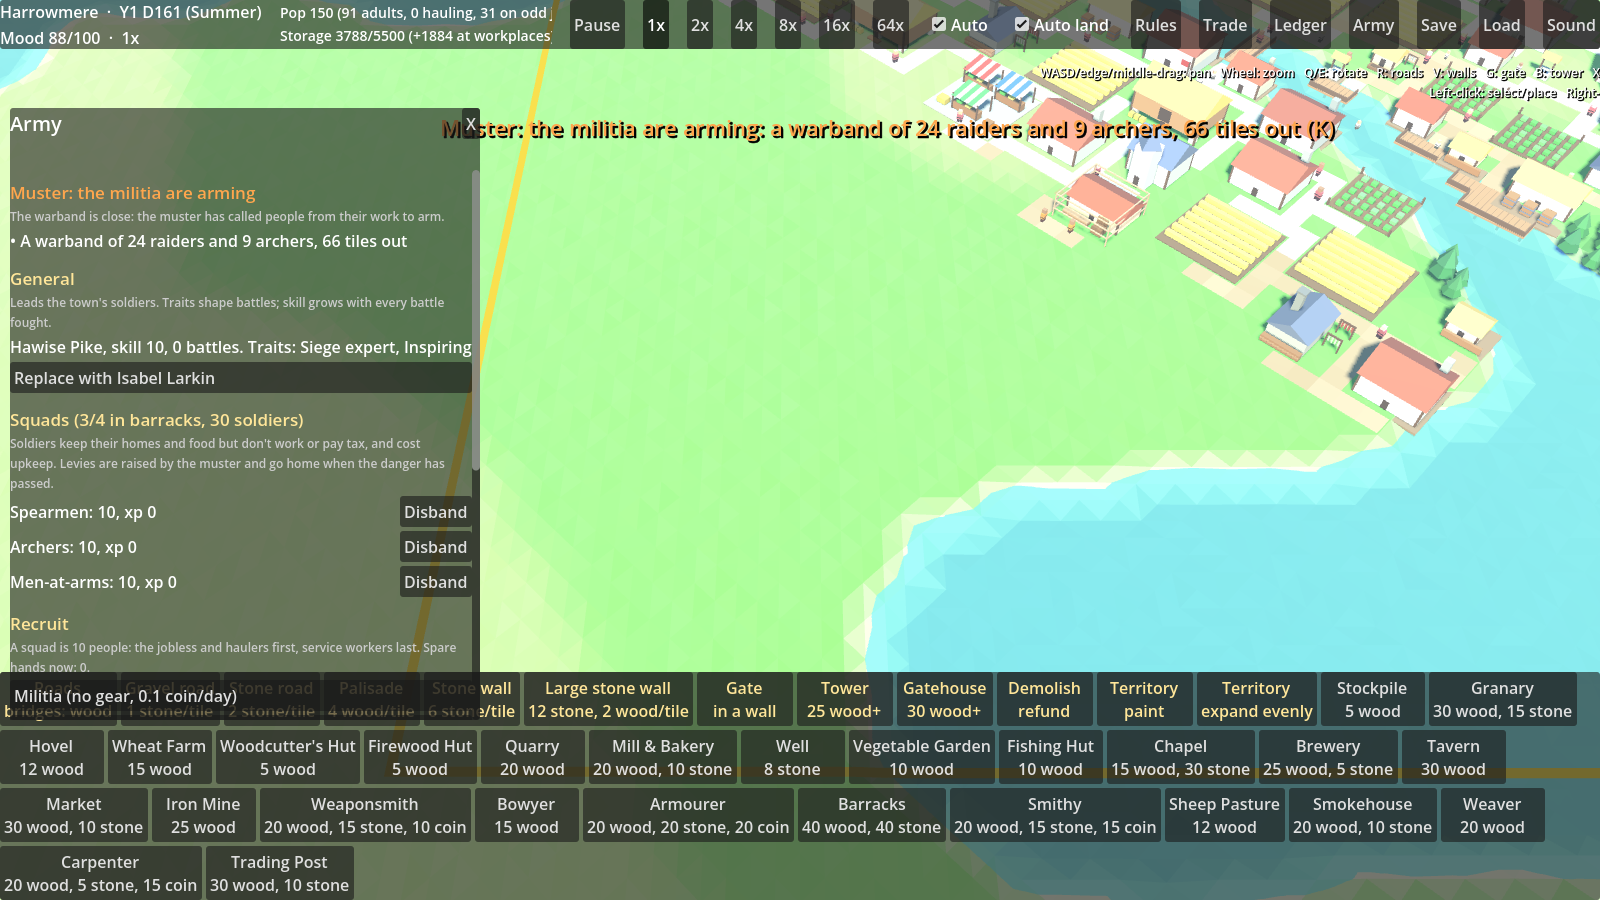
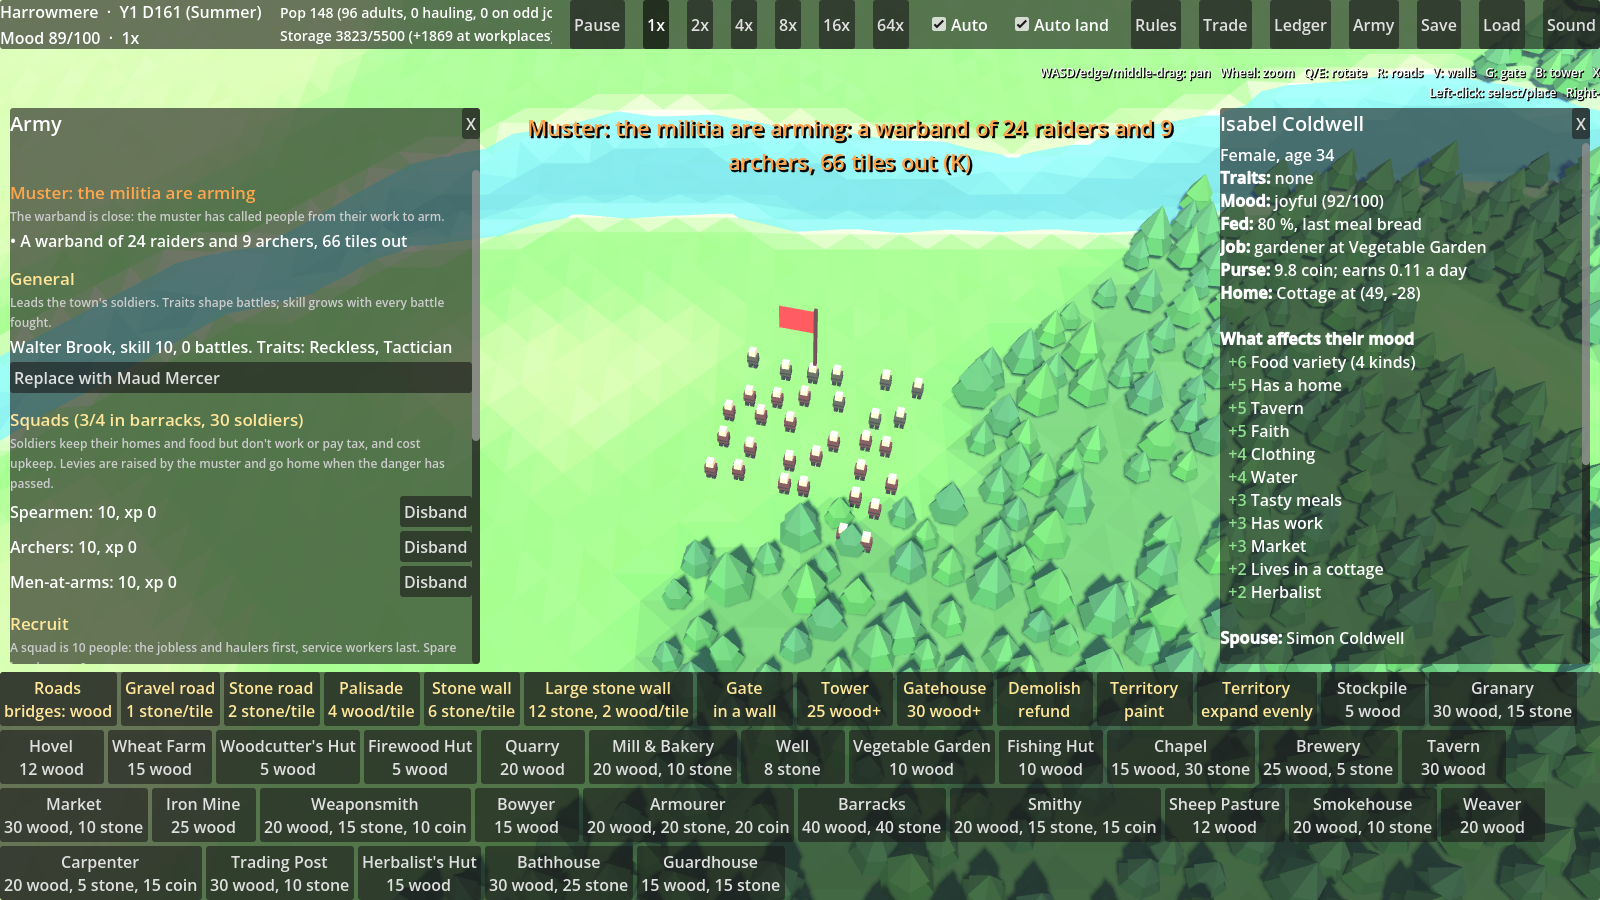
Keep side panels and the feed above the build menu
The build menu now wraps to four rows; the rules, trade, ledger, army and
inspector panels and the event feed fit themselves above its actual
height. The raid alert banner sits between the side panels and the
inspector.

Claude-Session: https://claude.ai/code/session_01MRVVn6MaY7YvDPrFApuYAs

diff --git a/client/Scripts/Ui/Hud.cs b/client/Scripts/Ui/Hud.cs
@@ -20,6 +20,8 @@ public partial class Hud : CanvasLayer
     private Label _feedLabel = null!;
     private Label _status = null!;
     private Label _alert = null!;
+    private PanelContainer _buildMenu = null!;
+    private VBoxContainer _feedBox = null!;
     private Button _pause = null!;
     private CheckBox _autoBuild = null!;
     private CheckBox _autoTerritory = null!;
@@ -127,7 +129,7 @@ public partial class Hud : CanvasLayer
         }
 
         // --- Build menu (bottom) ---
-        var bottom = new PanelContainer();
+        var bottom = _buildMenu = new PanelContainer();
         bottom.SetAnchorsAndOffsetsPreset(Control.LayoutPreset.BottomWide);
         bottom.GrowVertical = Control.GrowDirection.Begin;
         AddChild(bottom);
@@ -206,7 +208,7 @@ public partial class Hud : CanvasLayer
         }
 
         // --- Event feed and status (bottom-left, above the build menu) ---
-        var feedBox = new VBoxContainer { MouseFilter = Control.MouseFilterEnum.Ignore };
+        var feedBox = _feedBox = new VBoxContainer { MouseFilter = Control.MouseFilterEnum.Ignore };
         feedBox.SetAnchorsAndOffsetsPreset(Control.LayoutPreset.BottomLeft);
         feedBox.OffsetTop = -400;
         feedBox.OffsetBottom = -182; // the build menu is up to three rows tall
@@ -241,11 +243,11 @@ public partial class Hud : CanvasLayer
             MouseFilter = Control.MouseFilterEnum.Ignore,
             Visible = false,
         };
-        // Right of the side panels (which take the left 490 pixels), under the controls help.
-        _alert.SetAnchorsAndOffsetsPreset(Control.LayoutPreset.TopRight);
+        // Between the side panels (the left 490 pixels) and the inspector (the right 390), under the controls help.
+        _alert.SetAnchorsAndOffsetsPreset(Control.LayoutPreset.TopWide);
         _alert.OffsetTop = 112;
-        _alert.OffsetLeft = -1080;
-        _alert.OffsetRight = -20;
+        _alert.OffsetLeft = 490;
+        _alert.OffsetRight = -390;
         _alert.AutowrapMode = TextServer.AutowrapMode.WordSmart;
         _alert.AddThemeFontSizeOverride("font_size", 22);
         _alert.AddThemeColorOverride("font_shadow_color", Colors.Black);
@@ -308,8 +310,24 @@ public partial class Hud : CanvasLayer
         return string.Join("\n", lines);
     }
 
+    /// <summary>
+    /// Keeps the side panels (rules, trade, ledger, army, inspector) and the event feed above the build menu,
+    /// however many rows it wraps to at this window size.
+    /// </summary>
+    private void FitAboveBuildMenu()
+    {
+        float clear = _buildMenu.Size.Y + 8;
+        if (clear < 40) return; // not laid out yet
+        foreach (var child in GetChildren())
+            if (child is PanelContainer panel && panel != _buildMenu && Mathf.IsEqualApprox(panel.AnchorBottom, 1) && panel.AnchorTop == 0)
+                panel.OffsetBottom = -clear;
+        _feedBox.OffsetBottom = -clear;
+        _feedBox.OffsetTop = -clear - 218;
+    }
+
     public void Refresh(SimSession session)
     {
+        FitAboveBuildMenu();
         var world = session.World;
         var town = session.PlayerTown;
         double moodNow = town.Citizens.Count > 0 ? town.Citizens.Average(c => c.Mood) : 0;
